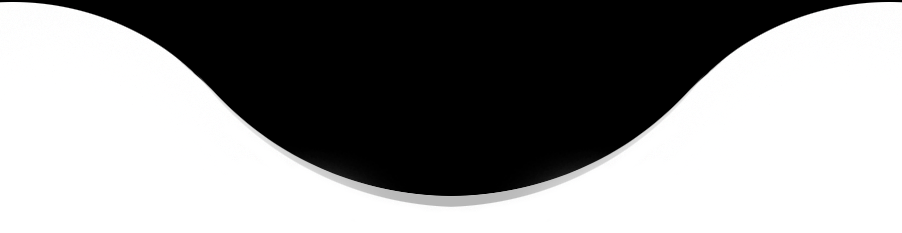
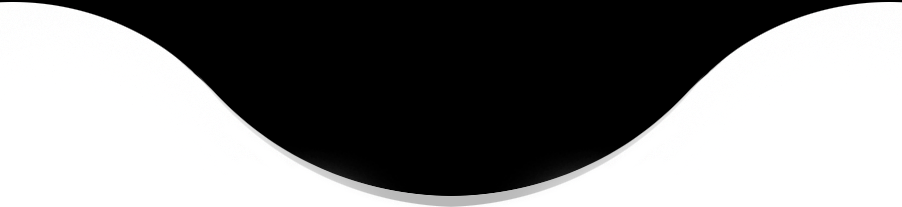
header-adaptive

diff --git a/app/html/page/index.html b/app/html/page/index.html
@@ -3,14 +3,39 @@
 
 <header class="main-header clearfix">
 	
-		<div class="main-header-left">
-			<div class="img-jewelry-wrapper">
-				<div class="img-jewelry">
-					<img src="img/kulon.png" alt="Золотой кулон с бриллиантами, аметистом и топазом">
-				</div>
+	<div class="main-header-left">
+		<div class="img-jewelry-wrapper">
+			<div class="img-jewelry">
+				<img src="img/kulon.png" alt="Золотой кулон с бриллиантами, аметистом и топазом">
 			</div>
-			<div class="form-jewelry-wrapper">
-				<div class="form-jewelry">
+		</div>
+		<div class="form-jewelry-wrapper desktop">
+			<div class="form-jewelry">
+				<div class="form-jewelry-caption-wrap">
+					<span class="form-jewelry-caption">Оставте вашы данные, и мы вам перезвоним</span>
+				</div>
+				<form action="#">
+					<div class="form-item">
+						<input type="text" placeholder="Ваше имя" name="name">
+					</div>						
+					<div class="form-item">
+						<input type="text" placeholder="Ваш телефон" name="phone" class="phone">
+					</div>
+					<input class="btn main-btn" type="submit" name="header-form-submit" value="Отправить">						
+				</form>
+			</div>
+		</div>	
+	</div>
+	<div class="main-header-right">
+		<div class="main-header-right-wrap">
+			<h1 class="headline">Золотой кулон с бриллиантами, аметистом и топазом</h1>
+			<h3 class="tagline">Подарок, который запомниться на всю жизнь</h3>
+			<div class="price">
+				<p class="price-through">5&nbsp;205&nbsp;грн.</p>
+				<p class="price-main">3&nbsp;653&nbsp;грн.</p>
+			</div>
+			
+				<div class="form-jewelry mobile">
 					<div class="form-jewelry-caption-wrap">
 						<span class="form-jewelry-caption">Оставте вашы данные, и мы вам перезвоним</span>
 					</div>
@@ -24,19 +49,12 @@
 						<input class="btn main-btn" type="submit" name="header-form-submit" value="Отправить">						
 					</form>
 				</div>
-			</div>	
+
 		</div>
-		<div class="main-header-right">
-			<div class="main-header-right-wrap">
-				<h1 class="headline">Золотой кулон с бриллиантами, аметистом и топазом</h1>
-				<h3 class="tagline">Подарок, который запомниться на всю жизнь</h3>
-				<div class="price">
-					<p class="price-through">5&nbsp;205&nbsp;грн.</p>
-					<p class="price-main">3&nbsp;653&nbsp;грн.</p>
-				</div>
-			</div>
-		</div>
+	</div>
 	
 </header>
+
+<section style="min-height: 100px; background-color: green;"></section>
 
 <!-- @@close-->

diff --git a/app/css/main.css b/app/css/main.css
@@ -137,6 +137,9 @@ textarea {
     color: #fff;
     outline: none; }
 
+.mobile {
+  display: none; }
+
 @font-face {
   font-family: "CenturyGothicRegular";
   font-style: normal;
@@ -157,7 +160,8 @@ textarea {
   .main-header .main-header-left {
     float: left;
     width: 50%;
-    background: url("../img/aside.png") #000 no-repeat 100% 0; }
+    background: url("../img/aside.png") #000 no-repeat 100% 0;
+    background-size: auto 100%; }
   .main-header .main-header-right {
     float: left;
     width: 50%;
@@ -188,7 +192,8 @@ textarea {
     z-index: 1; }
 
 .form-jewelry-wrapper {
-  margin-right: 210px; }
+  margin-right: 210px;
+  margin-bottom: 40px; }
 
 .form-jewelry {
   background-color: #287eb1;
@@ -237,18 +242,36 @@ textarea {
 /*==========  Desktop First Method  ==========*/
 /* Large Devices, Wide Screens */
 @media only screen and (max-width: 1200px) {
-  /**/ }
+  .main-header .main-header-right {
+    margin-top: 2%; }
+  .price-main {
+    margin-bottom: 0; } }
 
 /* Medium Devices, Desktops */
 @media only screen and (max-width: 992px) {
-  .main-header .main-header-left,
-  .main-header .main-header-right {
-    float: none;
-    width: 100%; }
-  .main-header .main-header-left {
-    background: #000; }
-  .main-header .img-jewelry {
-    margin-top: 0; } }
+  .main-header {
+    background-image: none; }
+    .main-header .main-header-left,
+    .main-header .main-header-right {
+      float: none;
+      width: 100%; }
+    .main-header .main-header-left {
+      background: #000 url("../img/aside_mobile.png") no-repeat 50% 100%;
+      background-size: 100% 100%;
+      padding-bottom: 20px; }
+    .main-header .img-jewelry {
+      margin-top: 0; }
+  .img-jewelry {
+    width: 16%; }
+    .img-jewelry img {
+      margin-top: 0; }
+  .img-jewelry-wrapper {
+    margin-right: 0;
+    margin-bottom: 0; }
+  .form-jewelry-wrapper.desktop {
+    display: none; }
+  .form-jewelry.mobile {
+    display: block; } }
 
 /* Small Devices, Tablets */
 @media only screen and (max-width: 768px) {
@@ -268,7 +291,15 @@ textarea {
 
 /* Extra Small Devices, Phones */
 @media only screen and (max-width: 480px) {
-  /**/ }
+  .img-jewelry {
+    width: 20%; }
+  h1 {
+    font-size: 1.875em; }
+  .tagline {
+    font-size: 1.125em;
+    margin-bottom: 40px; }
+  .form-jewelry .form-jewelry-caption {
+    font-size: 0.875em; } }
 
 /* Custom, iPhone Retina */
 @media only screen and (max-width: 320px) {

diff --git a/app/index.html b/app/index.html
@@ -31,7 +31,7 @@
         <div class="img-jewelry-wrapper">
           <div class="img-jewelry"> <img src="img/kulon.png" alt="Золотой кулон с бриллиантами, аметистом и топазом"> </div>
         </div>
-        <div class="form-jewelry-wrapper">
+        <div class="form-jewelry-wrapper desktop">
           <div class="form-jewelry">
             <div class="form-jewelry-caption-wrap"> <span class="form-jewelry-caption">Оставте вашы данные, и мы вам перезвоним</span> </div>
             <form action="#">
@@ -48,9 +48,16 @@
             <p class="price-through">5&nbsp;205&nbsp;грн.</p>
             <p class="price-main">3&nbsp;653&nbsp;грн.</p>
           </div>
+          <div class="form-jewelry mobile">
+            <div class="form-jewelry-caption-wrap"> <span class="form-jewelry-caption">Оставте вашы данные, и мы вам перезвоним</span> </div>
+            <form action="#">
+              <div class="form-item"> <input type="text" placeholder="Ваше имя" name="name"> </div>
+              <div class="form-item"> <input type="text" placeholder="Ваш телефон" name="phone" class="phone"> </div> <input class="btn main-btn" type="submit" name="header-form-submit" value="Отправить"> </form>
+          </div>
         </div>
       </div>
     </header>
+    <section style="min-height: 100px; background-color: green;"></section>
     <!-- Code -->
     <div class="hidden"></div>
     <!-- build:js js/vendor.min.js -->

diff --git a/app/scss/_media.scss b/app/scss/_media.scss
@@ -2,23 +2,53 @@
 
 /* Large Devices, Wide Screens */
 @media only screen and (max-width : 1200px){
-	/**/
+	.main-header{
+		.main-header-right{
+			margin-top: 2%;
+		}
+	}
+	.price-main{
+		margin-bottom: 0;
+	}
 }
 
 
 /* Medium Devices, Desktops */
 @media only screen and (max-width : 992px){
 	.main-header{
+		background-image: none;
 		.main-header-left,
 		.main-header-right{
 			float: none;
 			width: 100%;
 		}
 		.main-header-left{
-			background: #000;
+			background:#000 url("../img/aside_mobile.png") no-repeat 50% 100%;			
+			background-size: 100% 100%;
+			padding-bottom: 20px;
 		}
 		.img-jewelry{
 			margin-top: 0;
+		}
+	}
+	.img-jewelry{
+		width: 16%;
+		img{
+			margin-top: 0;
+		}
+	}
+	.img-jewelry-wrapper{
+		margin-right: 0;
+		margin-bottom: 0;
+	}
+	.form-jewelry-wrapper{
+		&.desktop{
+			display: none;
+		}
+	}
+	.form-jewelry{
+		&.mobile{
+			display: block;
 		}
 	}
 }
@@ -55,8 +85,22 @@
 
 
 /* Extra Small Devices, Phones */
-@media only screen and (max-width : 480px){
-	/**/
+@media only screen and (max-width : 480px){	
+	.img-jewelry{
+		width: 20%;
+	}
+	h1{
+		font-size: em(30px);
+	}
+	.tagline{
+		font-size: em(18px);
+		margin-bottom: 40px;
+	}
+	.form-jewelry{ 
+		.form-jewelry-caption{
+			font-size: em(14px);
+		}
+	}
 }
 
 

diff --git a/app/scss/main.scss b/app/scss/main.scss
@@ -11,7 +11,8 @@
 	.main-header-left{
 		float:left;
 		width: 50%;
-		background:url("../img/aside.png") #000 no-repeat 100% 0;	
+		background:url("../img/aside.png") #000 no-repeat 100% 0;
+		background-size: auto 100%;
 	}
 	.main-header-right {
 		float:left;
@@ -50,6 +51,7 @@
 
 .form-jewelry-wrapper{
 	margin-right: 210px;
+	margin-bottom: 40px;
 }
 
 .form-jewelry{

diff --git a/app/scss/_default.scss b/app/scss/_default.scss
@@ -149,3 +149,7 @@ textarea{
         outline: none;
     }
 }
+
+.mobile{
+    display: none;
+}
